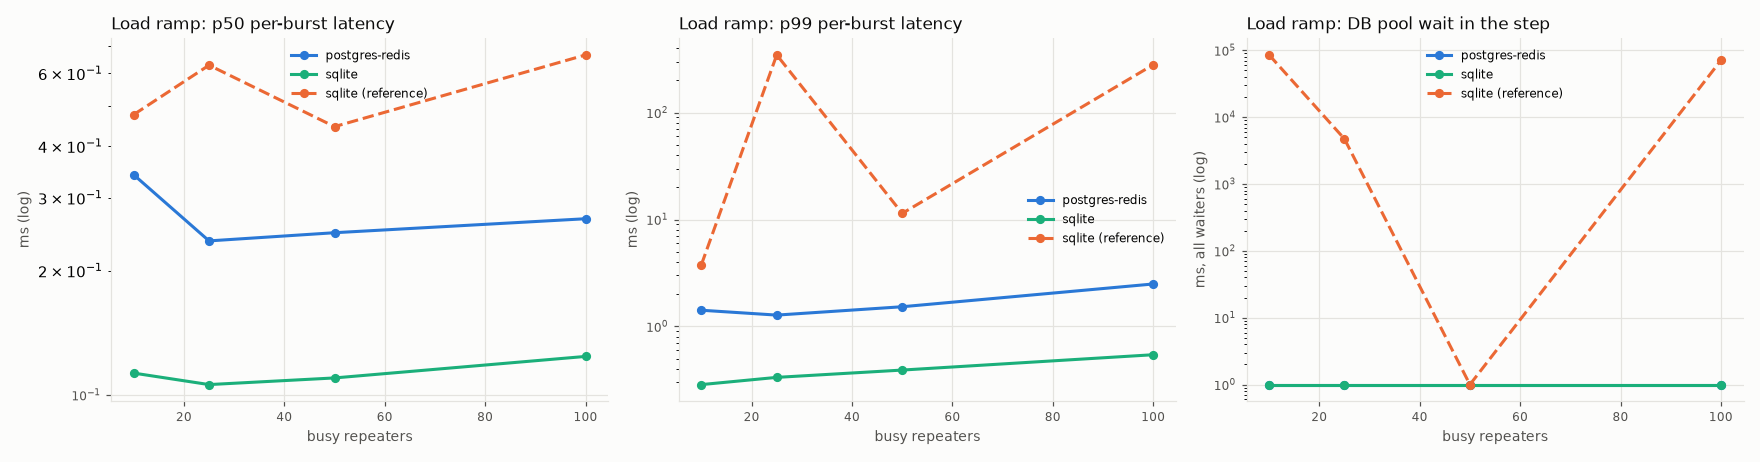
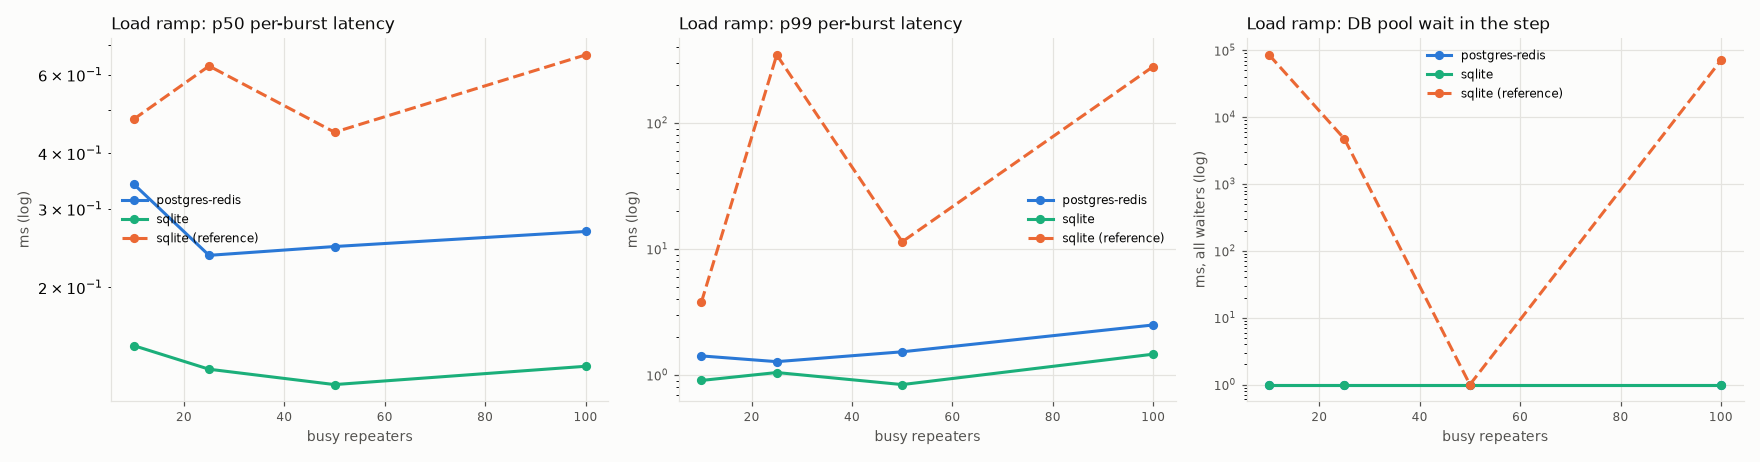
doc: give the stress results with synchronous=NORMAL on sqlite

diff --git a/doc/stress-results.md b/doc/stress-results.md
@@ -46,13 +46,13 @@ The chaos steps:
 
 | Item | Value |
 | --- | --- |
-| Date | 2026-10-26, 11:12 to 11:22 CDT |
+| Date | 2026-10-26, 11:12 to 11:22 CDT. The SQLite ramp ran again at 12:24 CDT with the synchronous change (see [SQLite commits waited for the disk](#sqlite-commits-waited-for-the-disk)). |
 | Code | main at `8ecf1dbe` (v1.3.14) plus the changes in [Changes in this branch](#changes-in-this-branch) |
 | Machine | AMD Ryzen 9 7950X, 16 cores, 32 threads, 93 GB RAM, NVMe SSD (ext4 on LVM), Linux 7.2.9 |
 | Other load | The machine also ran training and labeling jobs. The one-minute load average was 11 to 22 during the runs. Each area records it in `loadavg_start` and `loadavg_end`. |
 | Hub and test process | One Go process (Go 1.27.3) in a systemd scope with `CPUQuota=400%`, `nice -n 19` and `GOMAXPROCS=4`. The hub, the simulated repeaters, the ledger and the sampler share these 4 CPUs. |
 | Postgres and Redis | `postgres:16-alpine` and `redis:7-alpine` in Docker 29.9.0, each capped at 4 CPUs (`NanoCPUs`), on loopback |
-| SQLite | A database file with the default parameters of a production install (`foreign_keys(1)`, `journal_mode(WAL)`, `_txlock=immediate`) |
+| SQLite | A database file with the default parameters of a production install: `foreign_keys(1)`, `journal_mode(WAL)`, `_txlock=immediate`, and for the SQLite ramp `synchronous(NORMAL)`. The other SQLite areas ran with the old default, `synchronous(FULL)`. |
 | Network | Loopback only. No public network. |
 | Duration | 20 s of traffic for each area and for each ramp step |
 
@@ -70,7 +70,7 @@ Latency is the time from the send of a burst to its receive at a target, over al
 | transports | postgres-redis | pass | 8596 | 38752 | 0 | 0 | 0 | 516 | 0.28 | 0.69 | 2.14 | 11.7 |
 | chaos | sqlite | pass | 1944 | 7665 | 20 | 0 | 0 | - | 0.18 | 0.29 | 60.2 | 120 |
 | chaos | postgres-redis | fail | 2404 | 8833 | 86 | 0 | 0 | - | 0.34 | 1.11 | 4536 | 5011 |
-| ramp, 100 busy | sqlite | pass | 43077 | 148504 | 0 | 0 | 0 | - | 0.12 | 0.22 | 0.54 | 86.8 |
+| ramp, 100 busy | sqlite | pass | 43077 | 148504 | 0 | 0 | 0 | - | 0.13 | 0.29 | 1.46 | 41.1 |
 | ramp, 100 busy | postgres-redis | pass | 43077 | 148504 | 0 | 0 | 0 | - | 0.27 | 0.75 | 2.50 | 8.34 |
 
 Other checks of callmix and transports, on both backends:
@@ -108,18 +108,21 @@ Data does not wait behind voice: the data p99 is near the voice p99 in each area
 
 | Backend | Busy repeaters | Lanes | Bursts sent | Deliveries expected | Missing | Duplicates | p50 ms | p90 ms | p99 ms | max ms | CPU (cores) | DB statements per burst | DB pool wait ms | Call tracker drops | Load average |
 | --- | --- | --- | --- | --- | --- | --- | --- | --- | --- | --- | --- | --- | --- | --- | --- |
-| sqlite | 10 | 20 | 4339 | 17244 | 0 | 0 | 0.11 | 0.19 | 0.29 | 2.93 | 0.06 | 1.30 | 0 | 0 | 14.6 |
-| sqlite | 25 | 50 | 10685 | 38553 | 0 | 0 | 0.11 | 0.18 | 0.33 | 2.35 | 0.11 | 0.93 | 0 | 0 | 16.2 |
-| sqlite | 50 | 100 | 21288 | 72779 | 0 | 0 | 0.11 | 0.20 | 0.39 | 3.03 | 0.19 | 0.74 | 0 | 0 | 16.3 |
-| sqlite | 100 | 200 | 43077 | 148504 | 0 | 0 | 0.12 | 0.22 | 0.54 | 86.8 | 0.28 | 0.57 | 0 | 21491 | 17.7 |
+| sqlite | 10 | 20 | 4339 | 17244 | 0 | 0 | 0.15 | 0.29 | 0.91 | 6.39 | 0.06 | 1.28 | 0 | 0 | 14.4 |
+| sqlite | 25 | 50 | 10685 | 38553 | 0 | 0 | 0.13 | 0.26 | 1.05 | 8.83 | 0.11 | 0.93 | 0 | 0 | 12.2 |
+| sqlite | 50 | 100 | 21288 | 72779 | 0 | 0 | 0.12 | 0.26 | 0.84 | 18.7 | 0.19 | 0.78 | 0 | 0 | 11.3 |
+| sqlite | 100 | 200 | 43077 | 148504 | 0 | 0 | 0.13 | 0.29 | 1.46 | 41.1 | 0.34 | 0.64 | 0 | 0 | 13.6 |
+| sqlite, synchronous FULL | 100 | 200 | 43077 | 148504 | 0 | 0 | 0.12 | 0.22 | 0.54 | 86.8 | 0.28 | 0.57 | 0 | 21491 | 17.7 |
 | postgres-redis | 10 | 20 | 4339 | 17244 | 0 | 0 | 0.34 | 0.64 | 1.42 | 4.86 | 0.09 | 1.28 | 0 | 0 | 16.2 |
 | postgres-redis | 25 | 50 | 10685 | 38553 | 0 | 0 | 0.24 | 0.45 | 1.28 | 5.15 | 0.15 | 0.99 | 0 | 0 | 14.5 |
 | postgres-redis | 50 | 100 | 21288 | 72779 | 0 | 0 | 0.25 | 0.55 | 1.53 | 7.51 | 0.25 | 0.74 | 0 | 0 | 11.4 |
 | postgres-redis | 100 | 200 | 43077 | 148504 | 0 | 0 | 0.27 | 0.75 | 2.50 | 8.34 | 0.46 | 0.64 | 0 | 0 | 15.3 |
 
-The hub forwards every burst at every step on both backends, with a p99 under 3 ms. The CPU column is the CPU time of the whole test process (hub and simulated repeaters) for each second of the step. At 100 busy repeaters the process uses 0.28 cores (SQLite) and 0.46 cores (Postgres and Redis) of its 4.
+The SQLite rows come from the run with `synchronous(NORMAL)`. The last row is the 100 repeater step of the 11:12 run, with the old default `synchronous(FULL)`.
 
-The limit that the ramp finds is in the records, not in the forwarding: at 100 busy repeaters on SQLite, the call tracker dropped 21491 packets because its queue was full (see [Call tracker drops on SQLite](#call-tracker-drops-on-sqlite-at-100-busy-repeaters)).
+The hub forwards every burst at every step on both backends, with a p99 under 3 ms. The CPU column is the CPU time of the whole test process (hub and simulated repeaters) for each second of the step. At 100 busy repeaters the process uses about 0.3 cores (SQLite) and 0.46 cores (Postgres and Redis) of its 4.
+
+With `synchronous(FULL)`, the ramp found a limit in the records, not in the forwarding: at 100 busy repeaters on SQLite, the call tracker dropped 21491 packets because its queue was full. With `synchronous(NORMAL)` it dropped none (see [SQLite commits waited for the disk](#sqlite-commits-waited-for-the-disk)).
 
 ![Load ramp, SQLite](stress/ramp-sqlite.png)
 
@@ -162,14 +165,14 @@ In the run of 2026-10-23 (handoff bundle, `stress/run1-sqlite-before-fixes`), th
 
 | Busy repeaters | p99 ms (2026-10-23) | DB pool wait ms in the step (2026-10-23) | p99 ms (now, sqlite) |
 | --- | --- | --- | --- |
-| 10 | 3.79 | 85458 (see note) | 0.29 |
-| 25 | 346 | 4742 | 0.33 |
-| 50 | 11.4 | 0 | 0.39 |
-| 100 | 280 | 70858 | 0.54 |
+| 10 | 3.79 | 85458 (see note) | 0.91 |
+| 25 | 346 | 4742 | 1.05 |
+| 50 | 11.4 | 0 | 0.84 |
+| 100 | 280 | 70858 | 1.46 |
 
 Root cause: in that version, the routing of a burst read the database (for example `FindRepeaterByID` in `subscribeTG`), so a burst waited for a free connection of the database pool. The pool waits came in bursts, and the p99 of each step followed the pool wait of that step, not the load: the step with no pool wait (50 repeaters) had the lowest p99 after the first step.
 
-Main took the database and Redis off the packet path (for example `a764216d` "hub: keep the database off the routing path", `6c1a80ba` "hub: cache the repeater on the delivery path", `ec0d63cc` "hub: hold no burst on a lookup of a stalled database", with its test in `internal/dmr/hub/slow_db_test.go`). Proof that a slow database no longer reaches the bursts: in the 100 repeater step of this run, SQLite writers waited for the write lock for more than the 5 s busy timeout of the driver (25 `SQLITE_BUSY` errors, see [Call tracker drops on SQLite](#call-tracker-drops-on-sqlite-at-100-busy-repeaters)), and the p99 of that step was 0.54 ms. The p99 is now flat: 0.29 to 0.54 ms on SQLite, 1.28 to 2.50 ms on Postgres and Redis.
+Main took the database and Redis off the packet path (for example `a764216d` "hub: keep the database off the routing path", `6c1a80ba` "hub: cache the repeater on the delivery path", `ec0d63cc` "hub: hold no burst on a lookup of a stalled database", with its test in `internal/dmr/hub/slow_db_test.go`). Proof that a slow database no longer reaches the bursts: in the 100 repeater step of the 11:12 run, with `synchronous(FULL)`, SQLite writers waited for the write lock for more than the 5 s busy timeout of the driver (25 `SQLITE_BUSY` errors, see [SQLite commits waited for the disk](#sqlite-commits-waited-for-the-disk)), and the p99 of that step was 0.54 ms. The p99 is now flat: 0.84 to 1.46 ms on SQLite (0.29 to 0.54 ms in the 11:12 run with FULL; at the 100 step, the six strace runs below gave 0.44 to 1.93 ms with either setting, so the difference is within the spread of this shared machine), 1.28 to 2.50 ms on Postgres and Redis.
 
 Note: the 85458 ms of the first step of 2026-10-23 are the waits of the rig setup (100 logins and the first call of each user), not of the step. The sampler took its first sample on its own goroutine, so the first step often had no sample to start from and counted the setup. The commit "stress: take the first sample before the sampler returns" fixes this: before the fix, a run of this branch showed 77121 ms for the first step, and in this run the first step shows 0.
 
@@ -209,13 +212,32 @@ The KV client in `internal/kv/redis.go` keeps the retries. The hub calls only Ge
 
 On postgres-redis, the bursts that the hub publishes while Redis is paused arrive when Redis resumes, up to 5.0 s late (p99 4.5 s). Each PUBLISH waits in the socket of Redis, and Redis runs it when it resumes, after the publish timed out on the hub. The chaos area fails for this, because traffic must be dropped and counted, never held. A fix needs the receiver to drop a burst that is too old, which is a change of the wire format.
 
-### Call tracker drops on SQLite at 100 busy repeaters
+### SQLite commits waited for the disk
 
-**Status: open. Needs an owner decision.**
+**Status: fixed in this branch ("db: commit to SQLite with synchronous=NORMAL").**
 
-At 100 busy repeaters (200 lanes) on SQLite, the queue of the call tracker filled up (about 7800 packets) and the tracker dropped 21491 packets. The forwarding was not affected. The log has 25 `database is locked (SQLITE_BUSY)` errors on call rows, repeater saves, pings and the codec record. The process used 0.28 cores, so the limit is the SQLite writer, not the CPU. The number of drops changes from run to run on this shared machine (1, 1081, 10175 and 21491 in four runs). Postgres and Redis dropped nothing.
+With the old default parameters, at 100 busy repeaters (200 lanes) on SQLite, the queue of the call tracker filled up (about 7800 packets) and the tracker dropped 21491 packets. The forwarding was not affected, but a dropped tracker packet can leave a transmission row without its last bursts, or with wrong loss figures. The log had 25 `database is locked (SQLITE_BUSY)` errors. The process used 0.28 cores, so the CPU was not the limit. Postgres and Redis dropped nothing.
 
-Inference (not proven): each commit in WAL mode with the default `synchronous` setting waits for an fsync, and the writers wait for the one write lock for longer than the 5 s busy timeout of the driver when the disk is slow. Options are `_pragma=synchronous(NORMAL)` (a commit can be lost on a power failure, but the database stays consistent) or one write connection. A dropped tracker packet can leave a transmission row without its last bursts, or with wrong loss figures.
+Root cause: in WAL mode with `synchronous=FULL` (the SQLite default), each commit waits for an fsync of the WAL file. SQLite has one writer at a time, so the commits wait for each other, and the fsync time is serial. To prove it, the 100 repeater step ran alone under `strace -f -e trace=fsync,fdatasync -T`, with the same caps, three times with each setting, in turns:
+
+| Run | synchronous | WAL fsyncs in the 20 s step | Fsync time in the step | Fsync p50 ms | Fsync p99 ms | Call tracker drops |
+| --- | --- | --- | --- | --- | --- | --- |
+| 1 | FULL | 3307 (165/s) | 13.8 s (69%) | 3.72 | 8.18 | 1056 |
+| 1 | NORMAL | 72 (4/s) | 0.7 s (3%) | 3.98 | 14.5 | 0 |
+| 2 | FULL | 3418 (171/s) | 13.3 s (66%) | 3.65 | 8.11 | 826 |
+| 2 | NORMAL | 82 (4/s) | 0.5 s (2%) | 3.86 | 21.0 | 0 |
+| 3 | FULL | 3061 (153/s) | 14.3 s (71%) | 3.67 | 9.40 | 2285 |
+| 3 | NORMAL | 112 (6/s) | 0.7 s (3%) | 4.66 | 14.4 | 0 |
+
+With FULL, the one writer spent about 70% of the step in fsync, at about 3.7 ms for each commit, so the writes could not keep up and the tracker dropped packets. With NORMAL, the WAL is synced only at a checkpoint, the fsync time fell to 2 to 3% of the step, and the tracker dropped nothing. The SQLite ramp of this document, without strace, also had 0 drops and logged no error or warning.
+
+Durability: with `synchronous=NORMAL` in WAL mode, a power cut or an operating system crash can lose the last commits before the next checkpoint. The database stays consistent. A crash of DMRHub alone loses nothing.
+
+How an install gets it:
+
+- The default of `database.extra-parameters` now has `_pragma=synchronous(NORMAL)`.
+- An install that sets its own `database.extra-parameters` for SQLite gets `_pragma=synchronous(NORMAL)` added when none of its parameters is a `_pragma=synchronous(...)`. An install that sets synchronous keeps its own value. This is the same rule as for `_txlock=immediate`.
+- `TestSQLiteSynchronousIsNormal` in `internal/db/db_test.go` checks the three cases on four connections of the pool. Before the change, the default and the own-parameters cases failed (`synchronous is 2, want 1`).
 
 ### Known design limit: replica moves under heavy load
 
@@ -235,6 +257,7 @@ The chaos step `clock-jump` still skips: it has no way to step the clock of the 
 | stress: count each burst that the IPSC server drops as slot_busy | See [Transports and the IPSC slot](#transports-and-the-ipsc-slot). |
 | stress: take the first sample before the sampler returns | See the note in [Load ramp p99 not monotonic](#load-ramp-p99-not-monotonic). |
 | hack: compare the load ramp with an earlier run | `stress_plot.py` takes an earlier results directory and draws `ramp-compare.png`. |
+| db: commit to SQLite with synchronous=NORMAL | See [SQLite commits waited for the disk](#sqlite-commits-waited-for-the-disk). |
 
 ## Compared with 2026-10-23
 
@@ -245,5 +268,5 @@ The 2026-10-23 results are in the handoff bundle (`stress/run1-sqlite-before-fix
 | callmix | 5.67 | 0.33 | 0 | 0 | 0 | 0 |
 | transports | 4318 | 0.34 | 152 | 0 (516 slot_busy drops) | 94 | 0 |
 | chaos | 60.6 | 60.2 | 20 | 20 | 0 | 0 |
-| ramp, 25 busy | 346 | 0.33 | 0 | 0 | 0 | 0 |
-| ramp, 100 busy | 280 | 0.54 | 0 | 0 | 0 | 0 |
+| ramp, 25 busy | 346 | 1.05 | 0 | 0 | 0 | 0 |
+| ramp, 100 busy | 280 | 1.46 | 0 | 0 | 0 | 0 |
